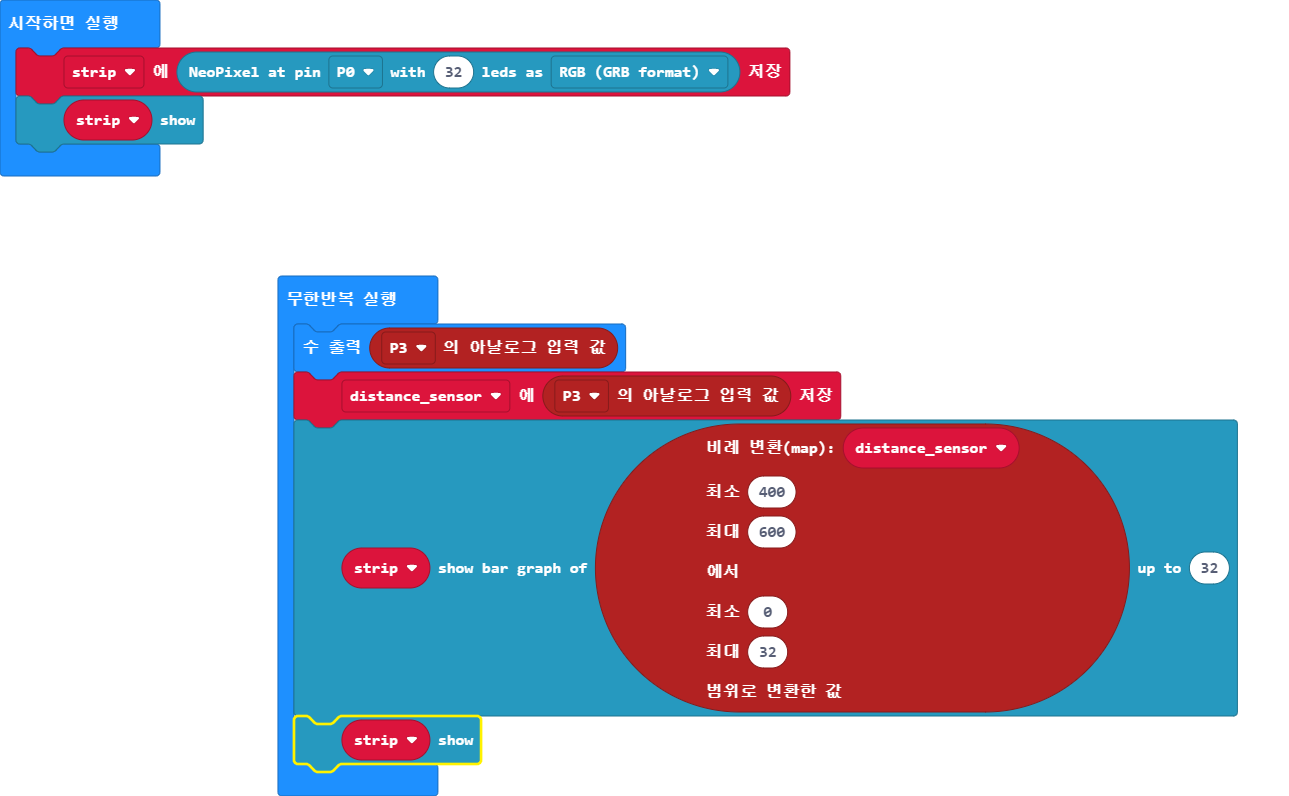
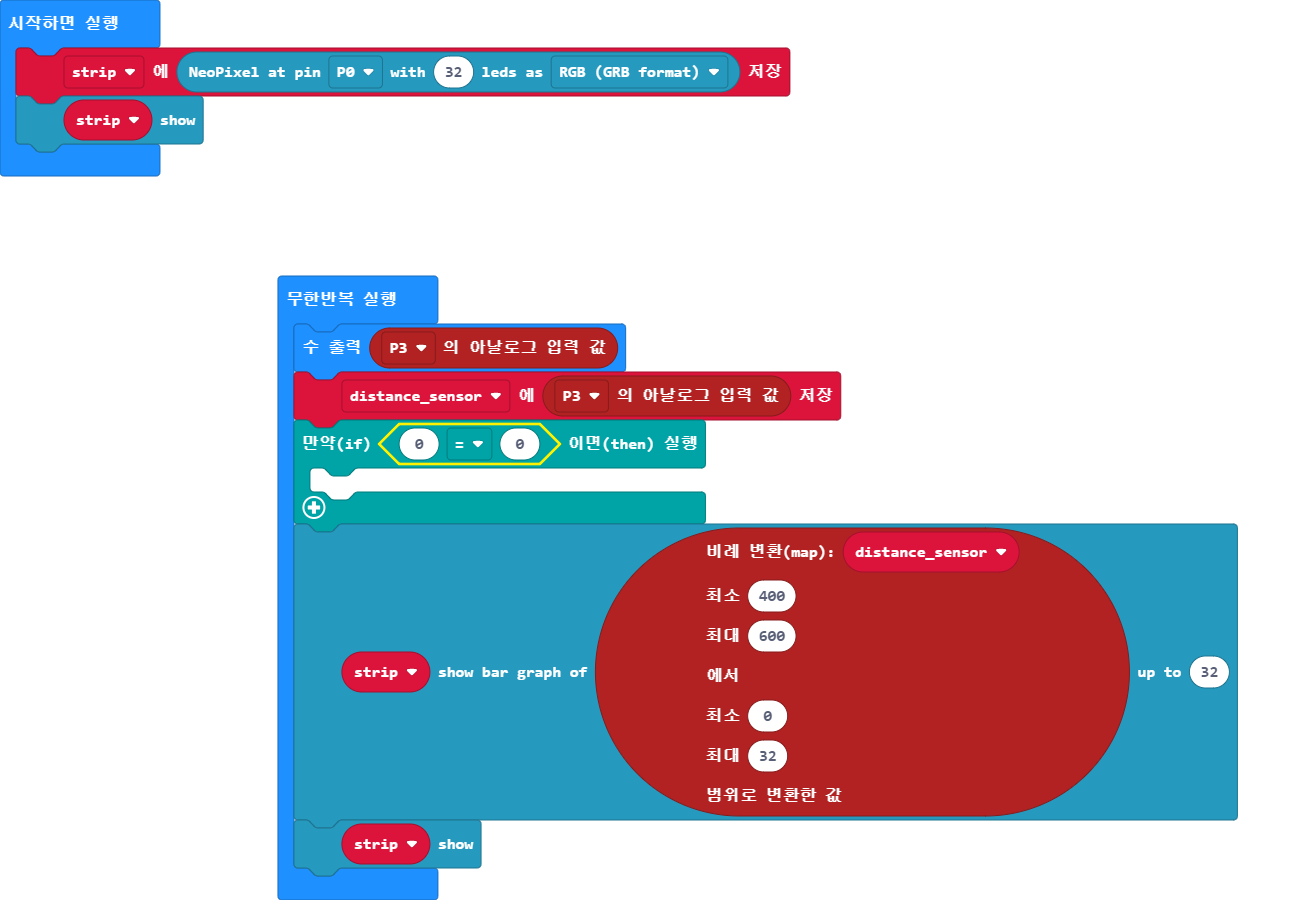
Update main.blocks, main.ts

Changed region(s): [[0.2172, 0.3015, 0.962, 0.995], [0.0, 0.0, 0.6206, 0.2412], [0.2483, 0.6633, 0.4655, 0.7839]]

diff --git a/main.ts b/main.ts
@@ -4,6 +4,9 @@ strip.show()
 basic.forever(function () {
     basic.showNumber(pins.analogReadPin(AnalogPin.P3))
     distance_sensor = pins.analogReadPin(AnalogPin.P3)
+    if (0 == 0) {
+    	
+    }
     strip.showBarGraph(pins.map(
     distance_sensor,
     400,
